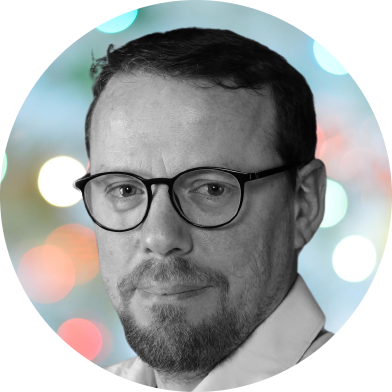
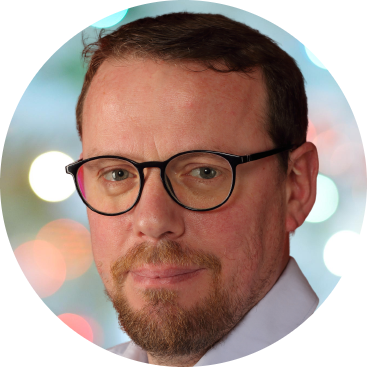
doc:done page aboutUs mobile

diff --git a/doc/integration/aboutUs.html b/doc/integration/aboutUs.html
@@ -87,25 +87,25 @@
             <div class="row g-3">
 
                 <div class="col-lg-3 col-sm-6">
-                    <img src="./asset/equipe/Julie-Quivron.png" class="img-fluid" alt="...">
+                    <img src="./asset/equipe/Julie-Quivron.png" class="photoMmember" alt="...">
                     <h3 class="nameMember mb-3">Mathieu Poltorak</h3>
                     <p class="statusMember mb-3">Product Owner</p>
                 </div>
 
                 <div class="col-lg-3 col-sm-6">
-                    <img src="./asset/equipe/Julie-Quivron.png" class="img-fluid" alt="...">
+                    <img src="./asset/equipe/Julie-Quivron.png" class="photoMmember" alt="...">
                     <h3 class="nameMember mb-3">Julie Quivron</h3>
                     <p class="statusMember mb-3">Scrum Master</p>
                 </div>
 
                 <div class="col-lg-3 col-sm-6">
-                    <img src="./asset/equipe/Yoann-Chaperon.png" class="img-fluid" alt="...">
+                    <img src="./asset/equipe/Yoann-Chaperon.png" class="photoMmember" alt="...">
                     <h3 class="nameMember mb-3">Yoann Chaperon</h3>
                     <p class="statusMember mb-3">Lead dev</p>
                 </div>
 
                 <div class="col-lg-3 col-sm-6">
-                    <img src="./asset/equipe/Lucas-Machus.png" class="img-fluid" alt="...">
+                    <img src="./asset/equipe/Lucas-Machus.png" class="photoMmember" alt="...">
                     <h3 class="nameMember mb-3">Lucas Machut</h3>
                     <p class="statusMember mb-3">Git Master</p>
                 </div>

diff --git a/doc/integration/CSS/aboutUs.css b/doc/integration/CSS/aboutUs.css
@@ -7,3 +7,48 @@
     font-family: 'Montserrat', cursive, sans-serif;
     text-align: center;
 }
+
+
+/********* media query aboutUs *********/
+@media (max-width: 991px) {
+    .photoMmember {
+        width: 75%;
+        height: 75%;
+        display: block;
+        margin-left: auto;
+        margin-right: auto
+    }
+}
+
+@media (max-width: 575px) {
+    .photoMmember {
+        width: 50%;
+        height: 50%;
+    }
+
+    .nameMember {
+        font-size: 24px;
+    }
+}
+
+@media (max-width: 455px) {
+    .nameMember {
+        font-size: 20px;
+    }
+
+    .statusMember {
+        font-size: 14px;
+    }
+
+}
+
+@media (max-width: 340px) {
+    .nameMember {
+        font-size: 16px;
+    }
+
+    .statusMember {
+        font-size: 12px;
+    }
+
+}
